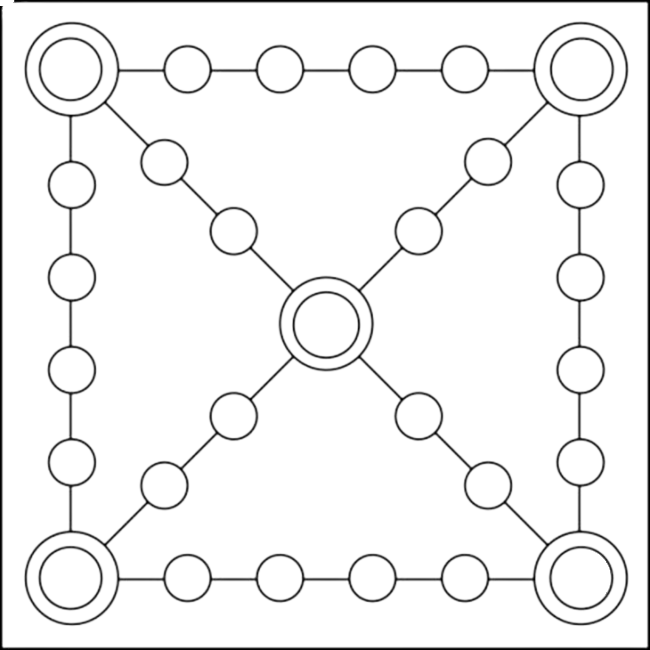
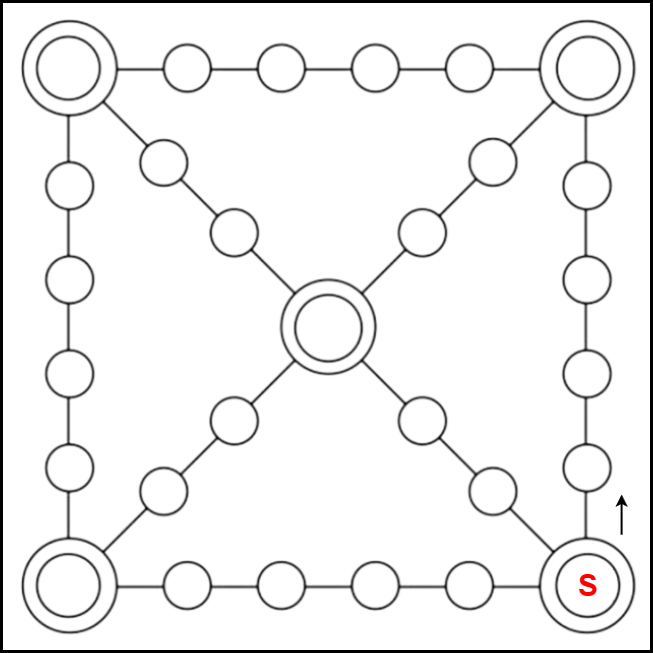
[#24][FEAT][UI] 말판 이미지 개선 / 업힌 말 이미지 추가 / 지정 윷 던지기 코드 추가(Only View)
[FEAT]
지정 윷 코드 버튼이 동작하도록 구현하였습니다.
다만 Controller와의 연결이 필요합니다.
____
[UI]
말판 이미지를 직접 만든 이미지로 교체하였습니다.
추가로, 업힌 말들의 이미지를 제작하여 추가하였습니다.

(말판의 좌표를 모두 기록하여 따로 파일을 제공했습니다.)

diff --git a/src/view/SwingPlayScreen.java b/src/view/SwingPlayScreen.java
@@ -43,13 +43,13 @@ public class SwingPlayScreen extends JFrame implements GamePlayView{
         JLabel boardLabel = new JLabel(boardIcon);
 
         if(boardType == BoardType.SQUARE) {
-            boardLabel.setBounds(-155,-155,1000,1000);
+        	boardLabel.setBounds(-155,-155,1000,1000); 
         }
         else if(boardType == BoardType.PENTAGON) {
-            boardLabel.setBounds(-210,-185,1150,1150);
+        	boardLabel.setBounds(-210,-235,1150,1150); 
         }
         else if(boardType == BoardType.HEXAGON){
-            boardLabel.setBounds(-190,-155,1000,1000);
+        	boardLabel.setBounds(-190,-165,1000,1000); 
         }
 
         getContentPane().add(boardLabel);
@@ -98,6 +98,14 @@ public class SwingPlayScreen extends JFrame implements GamePlayView{
         testRollButton.setBounds(730,610,200,60);
 
         add(testRollButton);
+        
+        testRollButton.addActionListener(new ActionListener() {
+        	@Override
+        	public void actionPerformed(ActionEvent e) {
+        		//추후 controller에게 전달
+        		displayResultSelect();
+        	}
+        });
 
         //클릭 시 좌표 출력
         getContentPane().addMouseListener(new MouseAdapter() {
@@ -141,6 +149,15 @@ public class SwingPlayScreen extends JFrame implements GamePlayView{
         setLocationRelativeTo(null);
         setVisible(true);
 
+    }
+    
+    //지정 윷을 정하는 화면 표시하는 메서드
+    private int displayResultSelect() {
+    	int result = 0;
+    	
+    	new SelectYutResultScreen();
+    	
+    	return result;
     }
 
     // 윷 결과를 화면에 표시하는 메서드

diff --git a/src/view/SelectYutResultScreen.java b/src/view/SelectYutResultScreen.java
@@ -1,0 +1,48 @@
+package view;
+
+import javax.swing.*;
+import java.awt.*;
+import java.awt.event.ActionEvent;
+import java.awt.event.ActionListener;
+
+public class SelectYutResultScreen extends JFrame{
+	
+	public SelectYutResultScreen() {
+        super("지정윷 선택");
+        InitUI();
+    }
+	
+	private void InitUI() {
+		setDefaultCloseOperation(JFrame.DISPOSE_ON_CLOSE);
+        setSize(800, 200);
+        setLayout(new GridBagLayout());
+        GridBagConstraints gbc = new GridBagConstraints();
+        gbc.insets = new Insets(20,20,10,10);
+        getContentPane().setBackground(new Color(255, 245, 230));
+        
+        String[] yutResult = {"백도", "도", "개", "걸", "윷", "모"};
+        int[] yutValues = {-1, 1, 2, 3, 4, 5};
+        
+        for (int i = 0; i < yutResult.length; i++) {
+            JButton button = new JButton(yutResult[i]);
+            int result = yutValues[i]; 
+            button.setFont(new Font("SansSerif", Font.BOLD, 18));
+            button.setBackground(new Color(120, 200, 120));
+            button.setForeground(Color.WHITE);
+            button.setFocusPainted(false);
+            button.setPreferredSize(new Dimension(100, 70));
+            button.addActionListener(e -> {
+                System.out.println("선택된 윷 결과: " + result);
+                dispose(); 
+            });
+            
+            gbc.gridx = i;
+            gbc.gridy = 0;
+            add(button, gbc);
+        }
+        
+        setLocationRelativeTo(null);
+        setVisible(true);
+       
+	}
+}
